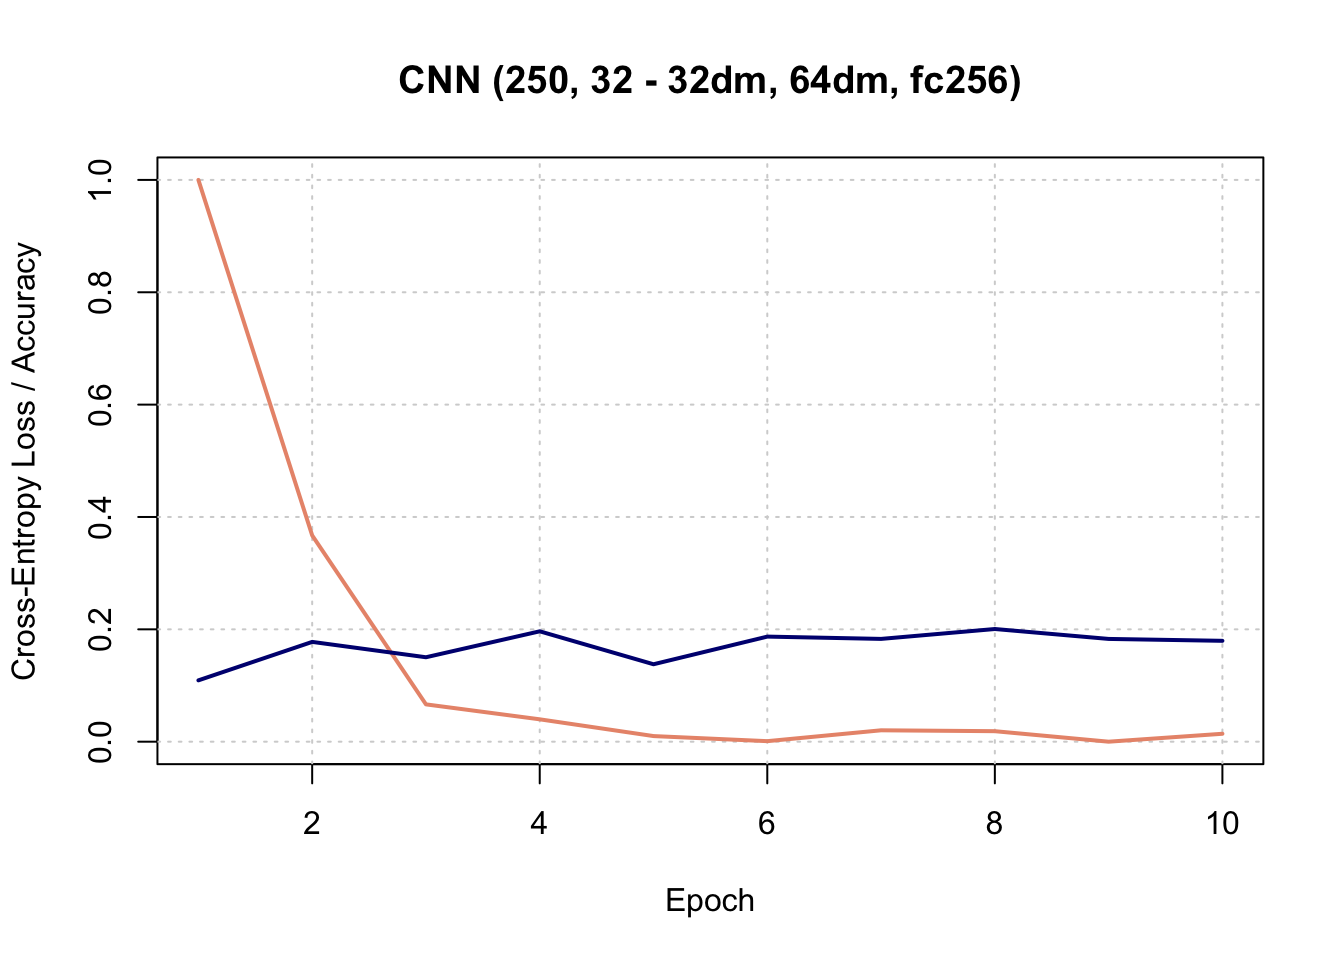
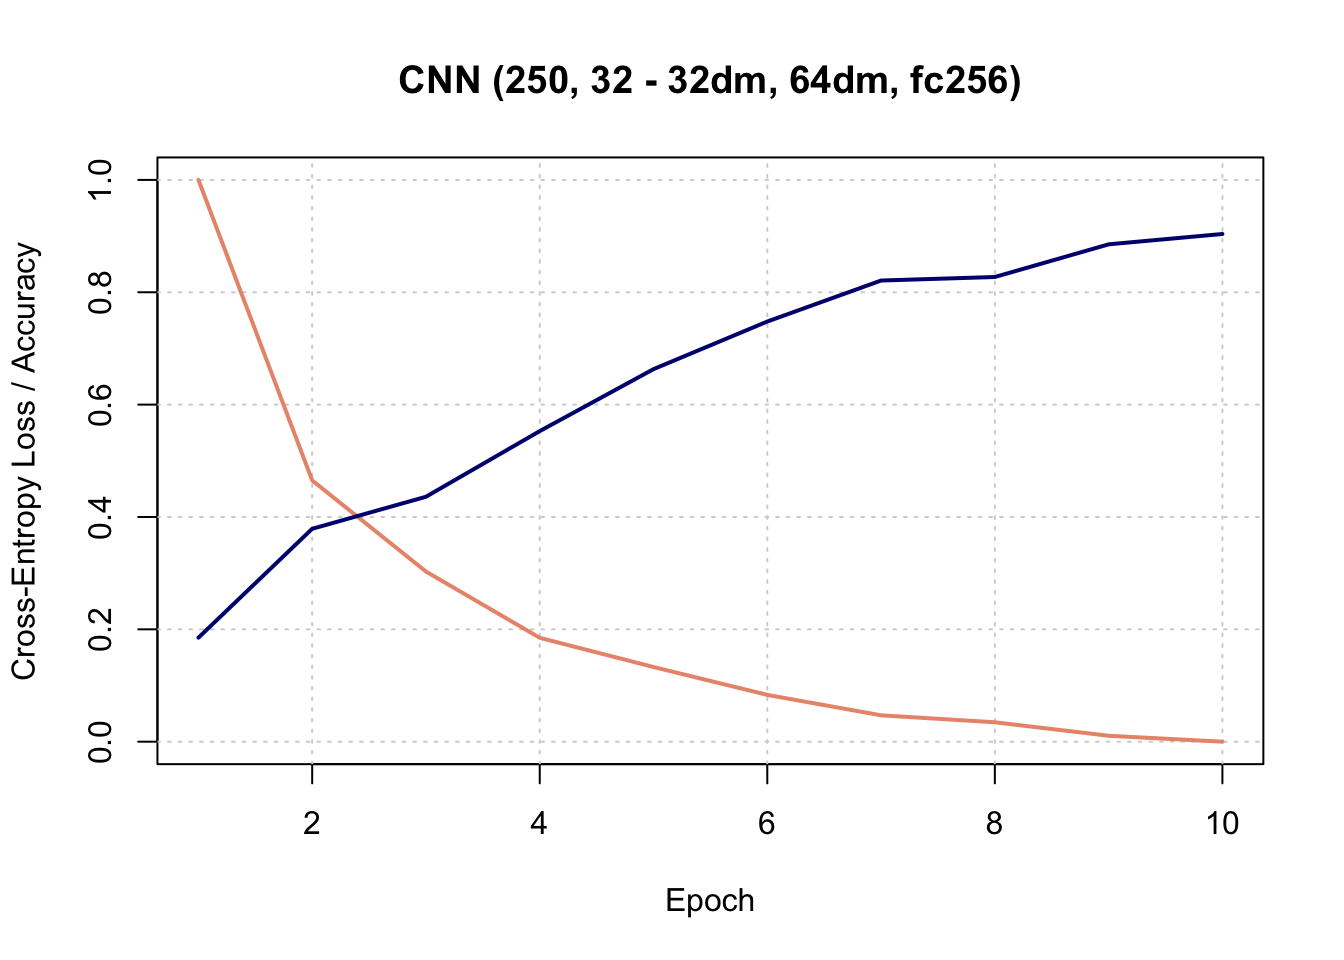
drop.out

diff --git a/12.3-multi-layer-perceptron-mlp.html b/12.3-multi-layer-perceptron-mlp.html
@@ -2990,17 +2990,19 @@ H = activation( X \cdotp \omega + b) \circ \mathbf{r}\ \ \ \ \ \leftarrow H = ac
 \end{align}\]</span></p>
 <p>where <strong>r</strong> is a Bernoulli distribution, e.g. <span class="math inline">\(r \sim Bernoulli(p)\)</span>, with <strong>p</strong> probability set preferably greater than or equal to 0.50. A higher probability indicates a lesser dropout. The random dropout is also scaled by <span class="math inline">\(1/p\)</span> to compensate for dropping some neurons. For example, below is our implementation of the <strong>drop.out(.)</strong> function motivated by a python code segment from CS231n PPT by Fei Fei et. al.</p>
 
-<div class="sourceCode" id="cb1926"><pre class="sourceCode r"><code class="sourceCode r"><a class="sourceLine" id="cb1926-1" data-line-number="1">drop.out &lt;-<span class="st"> </span><span class="cf">function</span>(data, prob) {  </a>
-<a class="sourceLine" id="cb1926-2" data-line-number="2">    v =<span class="st"> </span>data</a>
-<a class="sourceLine" id="cb1926-3" data-line-number="3">    di  =<span class="st"> </span><span class="kw">length</span>(v)</a>
-<a class="sourceLine" id="cb1926-4" data-line-number="4">    is.dim =<span class="st"> </span><span class="kw">is.matrix</span>(data) <span class="op">||</span><span class="st"> </span><span class="kw">is.array</span>(data)</a>
-<a class="sourceLine" id="cb1926-5" data-line-number="5">    <span class="cf">if</span> (is.dim) {</a>
-<a class="sourceLine" id="cb1926-6" data-line-number="6">        di =<span class="st"> </span><span class="kw">dim</span>(data); v =<span class="st"> </span><span class="kw">c</span>(data)</a>
-<a class="sourceLine" id="cb1926-7" data-line-number="7">    }</a>
-<a class="sourceLine" id="cb1926-8" data-line-number="8">    len =<span class="st"> </span><span class="kw">prod</span>(di)</a>
-<a class="sourceLine" id="cb1926-9" data-line-number="9">    p =<span class="st"> </span>(<span class="kw">runif</span>(<span class="dt">n =</span> len, <span class="dt">min=</span><span class="dv">0</span>, <span class="dt">max=</span><span class="dv">1</span>) <span class="op">&lt;</span><span class="st"> </span>prob) <span class="op">/</span><span class="st"> </span>prob  </a>
-<a class="sourceLine" id="cb1926-10" data-line-number="10">    <span class="kw">array</span>(v <span class="op">*</span><span class="st"> </span>p, di)</a>
-<a class="sourceLine" id="cb1926-11" data-line-number="11">}</a></code></pre></div>
+<div class="sourceCode" id="cb146"><pre class="sourceCode r"><code class="sourceCode r"><a class="sourceLine" id="cb146-1" data-line-number="1">drop.out &lt;-<span class="st"> </span><span class="cf">function</span>(data, prob) {</a>
+<a class="sourceLine" id="cb146-2" data-line-number="2">    v =<span class="st"> </span>data</a>
+<a class="sourceLine" id="cb146-3" data-line-number="3">    di  =<span class="st"> </span><span class="kw">length</span>(v)</a>
+<a class="sourceLine" id="cb146-4" data-line-number="4">    is.dim =<span class="st"> </span><span class="kw">is.matrix</span>(data) <span class="op">||</span><span class="st"> </span><span class="kw">is.array</span>(data)</a>
+<a class="sourceLine" id="cb146-5" data-line-number="5">    <span class="cf">if</span> (is.dim) {</a>
+<a class="sourceLine" id="cb146-6" data-line-number="6">        di =<span class="st"> </span><span class="kw">dim</span>(data); v =<span class="st"> </span><span class="kw">c</span>(data)</a>
+<a class="sourceLine" id="cb146-7" data-line-number="7">    }</a>
+<a class="sourceLine" id="cb146-8" data-line-number="8">    probn =<span class="st"> </span><span class="kw">round</span>(prob <span class="op">*</span><span class="st"> </span><span class="kw">prod</span>(di))</a>
+<a class="sourceLine" id="cb146-9" data-line-number="9">    len   =<span class="st"> </span><span class="kw">prod</span>(di)</a>
+<a class="sourceLine" id="cb146-10" data-line-number="10">    drop  =<span class="st"> </span><span class="kw">sample</span>(<span class="kw">seq</span>(<span class="dv">1</span>, len), probn, <span class="ot">FALSE</span>) </a>
+<a class="sourceLine" id="cb146-11" data-line-number="11">    v[drop] =<span class="st"> </span><span class="dv">0</span></a>
+<a class="sourceLine" id="cb146-12" data-line-number="12">    <span class="kw">array</span>(v, di)</a>
+<a class="sourceLine" id="cb146-13" data-line-number="13">}</a></code></pre></div>
 
 <p>To illustrate further, we modify our original implementation of <strong>forward.pass(.)</strong> and <strong>my.MLP(.)</strong> to accommodate our <strong>dropout</strong> functionality. All other code and functions in our <strong>MLP implementation</strong> are unchanged. See below:</p>
 

diff --git a/12.4-convolutional-neural-network-cnn.html b/12.4-convolutional-neural-network-cnn.html
@@ -2859,16 +2859,16 @@ Figure 12.46: CIFAR-10 (20th Image)
 <a class="sourceLine" id="cb2063-2" data-line-number="2">cnn.model =<span class="st"> </span><span class="kw">my.CNN</span>(images, labels, <span class="dt">layers =</span> cnn.layers, <span class="dt">optimize=</span><span class="st">&quot;adam&quot;</span>,</a>
 <a class="sourceLine" id="cb2063-3" data-line-number="3">                               <span class="dt">minibatch=</span>minibatch, <span class="dt">epoch=</span><span class="dv">10</span>, <span class="dt">eta=</span><span class="fl">0.001</span>)</a></code></pre></div>
 <pre><code>## [1] &quot;No of batches: 8&quot;
-## [1] &quot;epoch 1: loss 13.079 accuracy 0.109 val 0.065 lag time (sec): 13.660&quot;
-## [1] &quot;epoch 2: loss 6.351 accuracy 0.178 val 0.062 lag time (sec): 14.256&quot;
-## [1] &quot;epoch 3: loss 3.152 accuracy 0.150 val 0.125 lag time (sec): 13.249&quot;
-## [1] &quot;epoch 4: loss 2.869 accuracy 0.197 val 0.031 lag time (sec): 12.979&quot;
-## [1] &quot;epoch 5: loss 2.552 accuracy 0.138 val 0.031 lag time (sec): 13.835&quot;
-## [1] &quot;epoch 6: loss 2.456 accuracy 0.187 val 0.129 lag time (sec): 13.171&quot;
-## [1] &quot;epoch 7: loss 2.662 accuracy 0.183 val 0.094 lag time (sec): 13.615&quot;
-## [1] &quot;epoch 8: loss 2.645 accuracy 0.201 val 0.125 lag time (sec): 13.463&quot;
-## [1] &quot;epoch 9: loss 2.446 accuracy 0.183 val 0.065 lag time (sec): 14.742&quot;
-## [1] &quot;epoch 10: loss 2.596 accuracy 0.180 val 0.067 lag time (sec): 12.846&quot;</code></pre>
+## [1] &quot;epoch 1: loss 5.224 accuracy 0.185 val 0.000 lag time (sec): 13.672&quot;
+## [1] &quot;epoch 2: loss 2.627 accuracy 0.379 val 0.094 lag time (sec): 13.354&quot;
+## [1] &quot;epoch 3: loss 1.840 accuracy 0.436 val 0.188 lag time (sec): 13.278&quot;
+## [1] &quot;epoch 4: loss 1.267 accuracy 0.553 val 0.125 lag time (sec): 13.485&quot;
+## [1] &quot;epoch 5: loss 1.015 accuracy 0.663 val 0.156 lag time (sec): 12.941&quot;
+## [1] &quot;epoch 6: loss 0.774 accuracy 0.748 val 0.097 lag time (sec): 12.740&quot;
+## [1] &quot;epoch 7: loss 0.597 accuracy 0.821 val 0.156 lag time (sec): 13.674&quot;
+## [1] &quot;epoch 8: loss 0.537 accuracy 0.827 val 0.156 lag time (sec): 13.263&quot;
+## [1] &quot;epoch 9: loss 0.421 accuracy 0.885 val 0.258 lag time (sec): 12.910&quot;
+## [1] &quot;epoch 10: loss 0.370 accuracy 0.904 val 0.167 lag time (sec): 13.316&quot;</code></pre>
 <div class="sourceCode" id="cb2065"><pre class="sourceCode r"><code class="sourceCode r"><a class="sourceLine" id="cb2065-1" data-line-number="1">x =<span class="st"> </span><span class="kw">seq</span>(<span class="dv">1</span>, <span class="kw">length</span>(cnn.model<span class="op">$</span>cost))</a>
 <a class="sourceLine" id="cb2065-2" data-line-number="2">y =<span class="st"> </span>cnn.model<span class="op">$</span>cost</a>
 <a class="sourceLine" id="cb2065-3" data-line-number="3">y1 =<span class="st"> </span>(y <span class="op">-</span><span class="st"> </span><span class="kw">min</span>(y))<span class="op">/</span>(<span class="kw">max</span>(y) <span class="op">-</span><span class="st"> </span><span class="kw">min</span>(y))</a>
